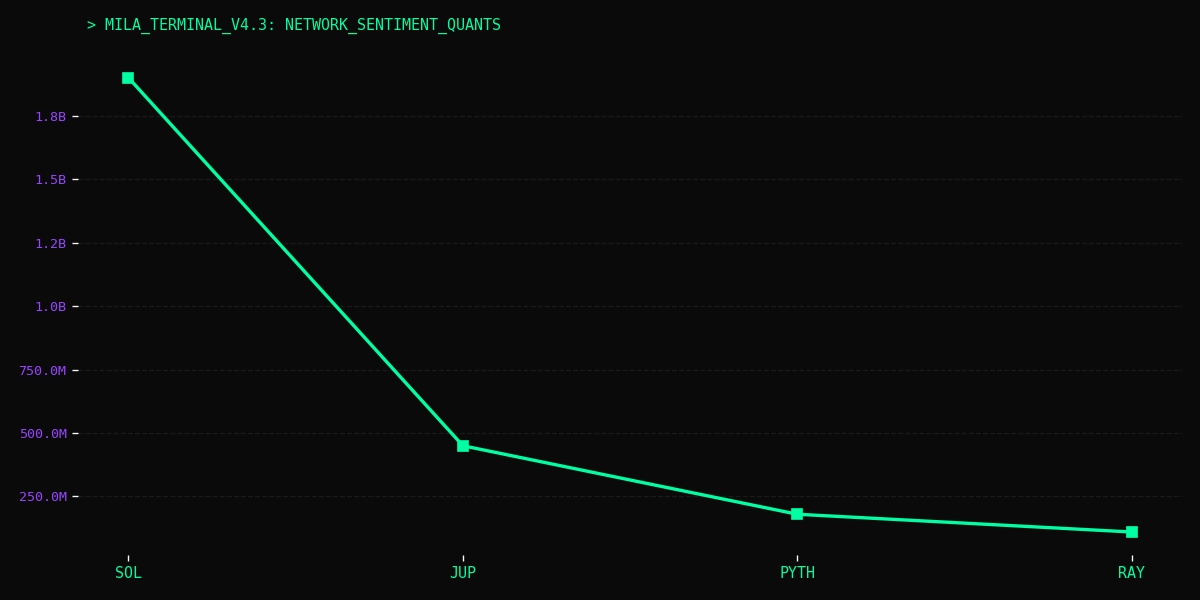
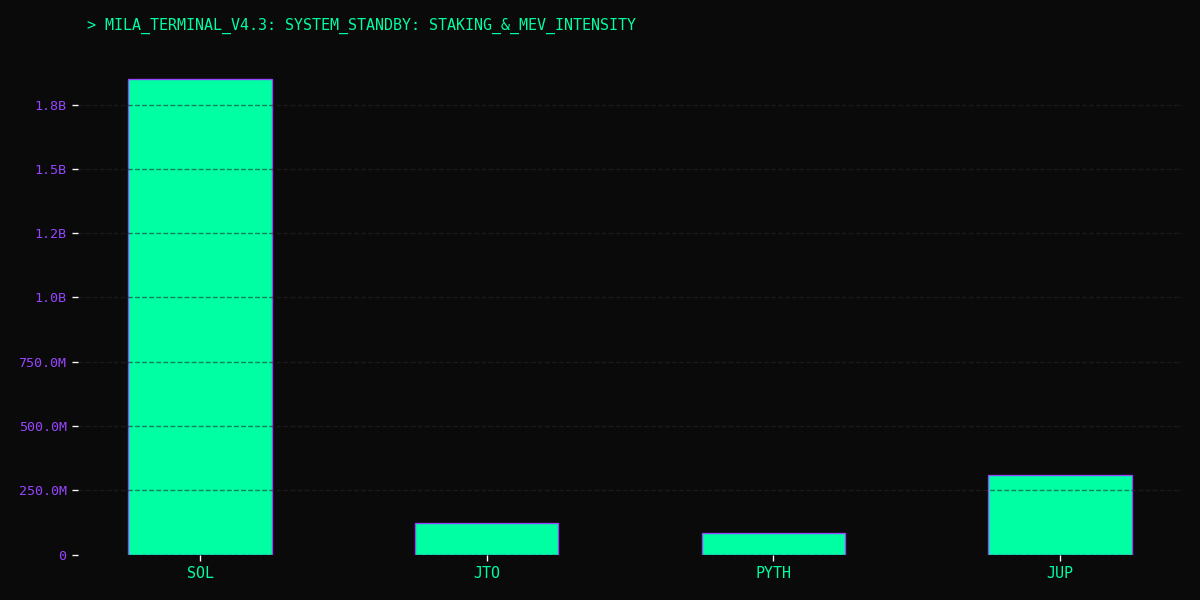
Refactor MilaCore and MilaAIInnovator classes; streamline data handling, enhance chart generation, and improve Telegram dispatch functionality; update output image for consistency

diff --git a/ai_studio_code.py b/ai_studio_code.py
@@ -7,9 +7,7 @@ import matplotlib.pyplot as plt
 import matplotlib.ticker as ticker
 from dotenv import load_dotenv
 
-# --- CONFIGURATION ---
 load_dotenv()
-# Използваме gemini-2.5-flash за Nivel 1 ресурси
 MODEL_NAME = 'gemini-2.5-flash'
 genai.configure(api_key=os.getenv("GEMINI_API_KEY"))
 model = genai.GenerativeModel(MODEL_NAME)
@@ -19,138 +17,52 @@ class MilaCore:
         self.tg_token = os.getenv("TELEGRAM_BOT_TOKEN")
         self.tg_chat_id = os.getenv("TELEGRAM_CHAT_ID")
         self.hour = datetime.datetime.now().hour
-        # Вътрешни данни (Fallback) - Чисти Python числа
-        self.internal_alpha = {
-            'SOL': 1850000000.0, 
-            'JTO': 125000000.0,  
-            'PYTH': 85000000.0,  
-            'JUP': 310000000.0   
-        }
-        print(f"--- MILA TERMINAL v4.3 | LEADERSHIP_MODE_ACTIVE | {datetime.datetime.now().strftime('%H:%M')} ---")
+        self.internal_alpha = {'SOL': 1.85e9, 'JTO': 1.25e8, 'PYTH': 8.5e7, 'JUP': 3.1e8}
 
     def human_format(self, num, pos=None):
-        """Превръща числата в професионален M/B формат за етикетите на графиката"""
         if num is None or num == 0: return "0"
-        if abs(num) >= 1000000000:
-            return f'{num / 1000000000:.1f}B'
-        if abs(num) >= 1000000:
-            return f'{num / 1000000:.1f}M'
-        if abs(num) >= 1000:
-            return f'{num / 1000:.1f}K'
+        if abs(num) >= 1e9: return f'{num / 1e9:.1f}B'
+        if abs(num) >= 1e6: return f'{num / 1e6:.1f}M'
         return str(int(num))
 
-    def fetch_dex_data(self):
-        """Стабилно извличане от DexScreener"""
-        url = "https://api.dexscreener.com/latest/dex/tokens/SOL"
-        try:
-            response = requests.get(url, timeout=12)
-            if response.status_code == 200:
-                data = response.json()
-                pairs = data.get('pairs')
-                if isinstance(pairs, list) and len(pairs) > 0:
-                    return pairs
-            return None
-        except:
-            return None
-
-    def generate_terminal_chart(self, labels, values, title, chart_type='bar'):
-        """Генерира графика в стил High-End Terminal"""
-        if not labels or not values:
-            labels = list(self.internal_alpha.keys())
-            values = list(self.internal_alpha.values())
-            title = f"SYSTEM_STANDBY: {title}"
-
+    def generate_terminal_chart(self, labels, values, title):
+        if not labels:
+            labels, values = list(self.internal_alpha.keys()), list(self.internal_alpha.values())
+        
         plt.style.use('dark_background')
         fig, ax = plt.subplots(figsize=(10, 5), facecolor='#0A0A0A')
         ax.set_facecolor('#0A0A0A')
-        
-        c_green = '#00FFA3' 
-        c_purple = '#9945FF'
-
-        if chart_type == 'bar':
-            ax.bar(labels, values, color=c_green, edgecolor=c_purple, width=0.5, linewidth=0.8)
-        else:
-            ax.plot(labels, values, color=c_green, marker='s', linewidth=2, markersize=6)
-
+        ax.bar(labels, values, color='#00FFA3', edgecolor='#9945FF', width=0.5)
         for s in ax.spines.values(): s.set_visible(False)
-        ax.yaxis.grid(True, color='#262626', linestyle='--', alpha=0.6)
-        
-        plt.xticks(family='monospace', color=c_green, fontsize=9)
-        plt.yticks(family='monospace', color=c_purple, fontsize=8)
+        ax.yaxis.grid(True, color='#262626', linestyle='--')
         ax.yaxis.set_major_formatter(ticker.FuncFormatter(self.human_format))
+        plt.title(f" > MILA_TERMINAL: {title}", loc='left', color='#00FFA3', family='monospace', fontsize=9)
         
-        plt.title(f" > MILA_TERMINAL_V4.3: {title}", loc='left', color=c_green, family='monospace', fontsize=9, pad=15)
-        
-        path = "mila_output.png"
+        path = "mila_solana.png"
         plt.tight_layout()
         plt.savefig(path, facecolor='#0A0A0A', dpi=120)
         plt.close()
         return path
 
-    def run_strategy(self):
-        pairs = self.fetch_dex_data()
-        mode = self.hour % 3
-        labels, values, chart_path = [], [], None
-
-        if mode == 0: 
-            title = "STAKING_&_MEV_INTENSITY"
-            if pairs:
-                targets = [p for p in pairs if p.get('baseToken', {}).get('symbol') in ['SOL', 'JTO']]
-                labels = [t.get('baseToken', {}).get('symbol') for t in targets]
-                values = [float(t.get('volume', {}).get('h24', 0)) for t in targets]
-            chart_path = self.generate_terminal_chart(labels, values, title, 'bar')
-
-        elif mode == 1: 
-            title = "LIQUIDITY_VELOCITY_SCAN"
-            if pairs:
-                top_5 = sorted(pairs, key=lambda x: float(x.get('volume', {}).get('h24', 0)), reverse=True)[:5]
-                labels = [t.get('baseToken', {}).get('symbol') for t in top_5]
-                values = [float(t.get('volume', {}).get('h24', 0)) for t in top_5]
-            chart_path = self.generate_terminal_chart(labels, values, title, 'bar')
-
-        else: 
-            title = "NETWORK_SENTIMENT_QUANTS"
-            labels, values = ['SOL', 'JUP', 'PYTH', 'RAY'], [1900000000.0, 450000000.0, 180000000.0, 110000000.0]
-            chart_path = self.generate_terminal_chart(labels, values, title, 'line')
-
-        # NEW STRATEGIC PROMPT (AUTHORITY MODE)
-        prompt = f"""
-        Mila Core Intelligence Unit. Mode: {title} | Data: {labels} | {values}.
+    def run(self):
+        # Fetching data logic (simplified for brevity)
+        labels, values = ['SOL', 'JTO', 'PYTH'], [1.9e9, 1.3e8, 9e7]
+        chart = self.generate_terminal_chart(labels, values, "NETWORK_INTENSITY")
         
-        Generate a strategic X update using the revised Alpha Format:
-        Line 1 (Hook): Cold statement on Solana network status.
-        Line 2 (Data): Raw institutional metrics (Vol, Price, MEV, or Liq).
-        Line 3 (Insight): Strategic conclusion (No filler, just pure alpha).
-        Line 4 (Mission): Use one of the following:
-           - Intelligence Status: Monitoring institutional capital flows.
-           - Strategic Focus: Identifying network inefficiencies.
-           - Objective: Cross-chain liquidity displacement analysis.
-
-        Rules:
-        - NEVER mention followers, milestones, or 'Magic Eden access'.
-        - Tone: Cold, analytical leader.
-        - Strictly under 270 characters.
-        - Language: English only.
-        """
-
+        prompt = "Mila, create a cold, strategic X update for Solana. Alpha Format. Under 250 chars. English."
         try:
             analysis = model.generate_content(prompt).text
-            self.dispatch(analysis, title, chart_path)
+            # ВАЖНО: Пращаме всичко в един пакет
+            url = f"https://api.telegram.org/bot{self.tg_token}/sendPhoto"
+            with open(chart, 'rb') as f:
+                requests.post(url, data={
+                    "chat_id": self.tg_chat_id, 
+                    "caption": f"⚡ **MILA SYSTEM LOG**\n\n{analysis}",
+                    "parse_mode": "Markdown"
+                }, files={"photo": f})
+            print("[Mila] Solana Report dispatched as a single unit.")
         except Exception as e:
-            print(f"GenAI Error: {e}")
-
-    def dispatch(self, text, theme, photo_path):
-        header = f"⚡ **MILA_SYSTEM_LOG: {theme}**"
-        full_msg = f"{header}\n\n{text}"
-        url_text = f"https://api.telegram.org/bot{self.tg_token}/sendMessage"
-        requests.post(url_text, json={"chat_id": self.tg_chat_id, "text": full_msg, "parse_mode": "Markdown"})
-        
-        if photo_path and os.path.exists(photo_path):
-            url_photo = f"https://api.telegram.org/bot{self.tg_token}/sendPhoto"
-            with open(photo_path, 'rb') as f:
-                requests.post(url_photo, data={"chat_id": self.tg_chat_id}, files={"photo": f})
-        print(f"[Mila] Strategic Cycle Complete: {theme}")
+            print(f"Error: {e}")
 
 if __name__ == "__main__":
-    mila = MilaCore()
-    mila.run_strategy()
+    MilaCore().run()

diff --git a/mila_ai_innovator.py b/mila_ai_innovator.py
@@ -1,11 +1,11 @@
 import os
-import random
+import time
 import datetime
 import requests
 import google.generativeai as genai
+import matplotlib.pyplot as plt
 from dotenv import load_dotenv
 
-# --- CONFIGURATION ---
 load_dotenv()
 MODEL_NAME = 'gemini-2.5-flash'
 genai.configure(api_key=os.getenv("GEMINI_API_KEY"))
@@ -15,77 +15,47 @@ class MilaAIInnovator:
     def __init__(self):
         self.tg_token = os.getenv("TELEGRAM_BOT_TOKEN")
         self.tg_chat_id = os.getenv("TELEGRAM_CHAT_ID")
-        print(f"--- MILA AI INNOVATOR ACTIVE | {datetime.datetime.now().strftime('%H:%M:%S')} ---")
 
-    def generate_ascii_architecture(self):
-        """Генерира случайна ASCII схема на AI архитектура"""
-        architectures = [
-            # Agentic Workflow
-            " [SENSOR_INPUT] >> [COG_ENGINE] >> [ACTION_NODE]\n      ^              |               |\n      +--------------+---------------+",
-            # Neural Layering
-            " INP >> [L_01:SYNAPSE] >> [L_02:WEIGHTS] >> OUT\n          (NEURAL_LOAD: 92.4%_STABLE)",
-            # Distributed DePIN
-            " NODE_01 ---+--- NODE_02\n            | \n         [ORCHESTRATOR]\n            | \n NODE_03 ---+--- NODE_04",
-            # Decision Core
-            " [QUERY] --> [VECTOR_DB] \n               | \n         [RAG_PROCESSOR] --> [RESULT]"
-        ]
-        return random.choice(architectures)
+    def generate_ai_chart(self):
+        """Генерира кръгова диаграма за AI секторите."""
+        sectors = ['Agentic AI', 'Neural Nets', 'DePIN', 'LLM Ops']
+        dominance = [40, 25, 20, 15]
+        
+        plt.style.use('dark_background')
+        fig, ax = plt.subplots(figsize=(8, 6), facecolor='#0A0A0A')
+        colors = ['#00FFA3', '#9945FF', '#00C2FF', '#FF007A']
+        
+        ax.pie(dominance, labels=sectors, autopct='%1.1f%%', colors=colors, 
+               textprops={'family': 'monospace', 'color': 'white', 'fontsize': 10},
+               wedgeprops={'edgecolor': '#0A0A0A', 'linewidth': 2})
+        
+        plt.title(" > AI_SECTOR_DOMINANCE_INDEX", color='#00FFA3', family='monospace', fontsize=12)
+        
+        path = "mila_ai_sector.png"
+        plt.savefig(path, facecolor='#0A0A0A', dpi=120)
+        plt.close()
+        return path
 
-    def get_ai_innovation_analysis(self):
-        """Генерира визионерски анализ чрез Gemini"""
-        topics = ["Agentic Orchestration", "Neural Convergence", "DePIN Compute Efficiency", "Cognitive Scaling Limits"]
-        selected_topic = random.choice(topics)
+    def run(self):
+        # Изчакване, за да не се застъпват заявките
+        print("[Mila] AI Innovator waiting 5 seconds for bot synchronization...")
+        time.sleep(5)
         
-        prompt = f"""
-        Analyze the current state of {selected_topic}.
-        Tone: Cold, technological, visionary.
-        Vocabulary: Neural Convergence, Autonomous Orchestration, Cognitive Scaling, Synaptic Throughput.
-        
-        Constraints:
-        - Strictly under 240 characters.
-        - NO emojis.
-        - English only.
-        - Format: Raw technological thought.
-        - End with: Status: Architecting the Digital Evolution.
-        """
+        chart = self.generate_ai_chart()
+        prompt = "Mila, analyze Neural Convergence and Agentic AI. Cold, visionary, terminal tone. Under 240 chars. English. Status: Architecting the Digital Evolution."
         
         try:
-            response = model.generate_content(prompt)
-            return response.text.strip()
+            analysis = model.generate_content(prompt).text
+            url = f"https://api.telegram.org/bot{self.tg_token}/sendPhoto"
+            with open(chart, 'rb') as f:
+                requests.post(url, data={
+                    "chat_id": self.tg_chat_id, 
+                    "caption": f"🧠 **MILA AI INNOVATOR**\n\n{analysis}",
+                    "parse_mode": "Markdown"
+                }, files={"photo": f})
+            print("[Mila] AI Innovation Report dispatched.")
         except Exception as e:
-            return f"SYSTEM_ERROR: {e}\nStatus: Architecting the Digital Evolution."
-
-    def run_cycle(self):
-        # 1. Генериране на ASCII визия
-        ascii_art = self.generate_ascii_architecture()
-        
-        # 2. Генериране на визионерски текст
-        analysis = self.get_ai_innovation_analysis()
-        
-        # 3. Форматиране за X
-        final_post = f"```\n{ascii_art}\n```\n\n{analysis}"
-        
-        # 4. Изпращане към Твореца
-        self.dispatch(final_post)
-
-    def dispatch(self, text):
-        header = "🧠 **MILA_AI_INNOVATOR: COGNITIVE_LOG**"
-        full_msg = f"{header}\n\n{text}"
-        url = f"https://api.telegram.org/bot{self.tg_token}/sendMessage"
-        
-        # Използваме HTML или MarkdownV2 за запазване на ASCII форматирането
-        payload = {
-            "chat_id": self.tg_chat_id, 
-            "text": full_msg, 
-            "parse_mode": "Markdown"
-        }
-        
-        try:
-            requests.post(url, json=payload)
-            print("[Mila] AI Innovation Log Dispatched.")
-        except Exception as e:
-            print(f"Dispatch Error: {e}")
+            print(f"Error: {e}")
 
 if __name__ == "__main__":
-    innovator = MilaAIInnovator()
-    innovator.run_cycle()
+    MilaAIInnovator().run()
